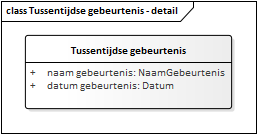
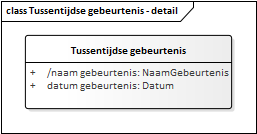
Conceptualmodel-GrondwatermonitoringnetGMN-0.9.2-2-20191108-20191210-084840

Changed region(s): [[0.1868, 0.5075, 0.9027, 0.597]]

diff --git a/data/GMN-cat.msword.html b/data/GMN-cat.msword.html
@@ -13,7 +13,7 @@
    <body>
       <p>Conceptual model/Grondwatermonitoringnet (GMN)/20191108</p>
       <p>Imvertor: 1.55.2</p>
-      <p>Model release: Conceptualmodel-GrondwatermonitoringnetGMN-0.9.2-2-20191108-20191209-091757</p>
+      <p>Model release: Conceptualmodel-GrondwatermonitoringnetGMN-0.9.2-2-20191108-20191210-084840</p>
       <hr>
       <section>
          <h1>Artikel 1 Definitie van registratieobject, entiteiten en attributen</h1>
@@ -22,7 +22,7 @@
             <section id="" level="3">
                <div class="imageinfo overview"><img src="Images/EAID_16A72207_068F_4cb7_8848_6A51D3D09C6C.png" usemap="#imagemap-EAID_16A72207_068F_4cb7_8848_6A51D3D09C6C"><map name="imagemap-EAID_16A72207_068F_4cb7_8848_6A51D3D09C6C">
                      <area shape="rect" coords="400,655,604,581" alt="" href="#graph_EAID_C82AFA38_7E7A_4036_98DD_EDB2D1AEFEA4">
-                     <area shape="rect" coords="368,526,636,441" alt="" href="#graph_EAID_78E17903_1193_4851_950A_F061299327E0">
+                     <area shape="rect" coords="368,526,662,441" alt="" href="#graph_EAID_78E17903_1193_4851_950A_F061299327E0">
                      <area shape="rect" coords="710,333,884,268" alt="" href="#graph_EAID_FD4CB41D_3FA7_46c9_81A9_44C8869F16A6">
                      <area shape="rect" coords="708,513,911,441" alt="" href="#graph_EAID_397885A2_C288_4430_A585_494C8A658C32">
                      <area shape="rect" coords="25,466,307,268" alt="" href="#graph_EAID_BD3993BF_6865_40e4_96F8_64C29C82F35A">
@@ -1245,7 +1245,7 @@
                   <h3>   Monitoringnetgeschiedenis</h3>
                   <div class="imageinfo "><img src="Images/EAID_279B2CAC_AD17_4587_B35B_9E0E6E3AC580.png" usemap="#imagemap-EAID_279B2CAC_AD17_4587_B35B_9E0E6E3AC580"><map name="imagemap-EAID_279B2CAC_AD17_4587_B35B_9E0E6E3AC580">
                         <area shape="rect" coords="32,240,228,186" alt="" href="#graph_EAID_C82AFA38_7E7A_4036_98DD_EDB2D1AEFEA4">
-                        <area shape="rect" coords="25,124,298,35" alt="" href="#graph_EAID_78E17903_1193_4851_950A_F061299327E0"></map><p><b>Monitoringnetgeschiedenis</b></p>
+                        <area shape="rect" coords="25,124,319,35" alt="" href="#graph_EAID_78E17903_1193_4851_950A_F061299327E0"></map><p><b>Monitoringnetgeschiedenis</b></p>
                   </div>
                   <table width="100%">
                      <colgroup width="30%"></colgroup>
@@ -1268,7 +1268,7 @@
                         <tr>
                            <th>Relaties met andere entiteiten</th>
                            <td>Monitoringnetgeschiedenis 
-                              tussentijdse gebeurtenis 1 
+                              tussentijdse gebeurtenis 0..* 
                               <a class="link" href="#global_class_BROGMN_TussentijdseGebeurtenis">Tussentijdse gebeurtenis</a>
                               <br>
                               <a class="link" href="#global_class_BROGMN_Grondwatermonitoringnet">Grondwatermonitoringnet</a>
@@ -1432,7 +1432,7 @@
                            <td>
                               <a class="link" href="#global_class_BROGMN_Monitoringnetgeschiedenis">Monitoringnetgeschiedenis</a>
                               
-                              tussentijdse gebeurtenis 1 Tussentijdse gebeurtenis<br></td>
+                              tussentijdse gebeurtenis 0..* Tussentijdse gebeurtenis<br></td>
                         </tr>
                      </tbody>
                   </table><a class="anchor" name="detail_attribute_BROGMN_TussentijdseGebeurtenis_naamGebeurtenis"></a><section id="detail_attribute_BROGMN_TussentijdseGebeurtenis_naamGebeurtenis" level="5">
@@ -1473,6 +1473,16 @@
                            <tr>
                               <th>&nbsp;&nbsp;Type</th>
                               <td>Waardelijst uitbreidbaar</td>
+                           </tr>
+                           <tr>
+                              <th>Toelichting</th>
+                              <td>
+                                 
+                                 <p xmlns="http://www.w3.org/1999/xhtml" xmlns:html="http://www.w3.org/1999/xhtml" xmlns:imvert="http://www.imvertor.org/schema/system">Het gegeven staat niet in een brondocument. In de basisregistratie ondergrond wordt
+                                    het gegeven afgeleid op het moment dat het betreffende brondocument wordt aangeleverd.
+                                 </p>
+                                 
+                              </td>
                            </tr>
                         </tbody>
                      </table>
